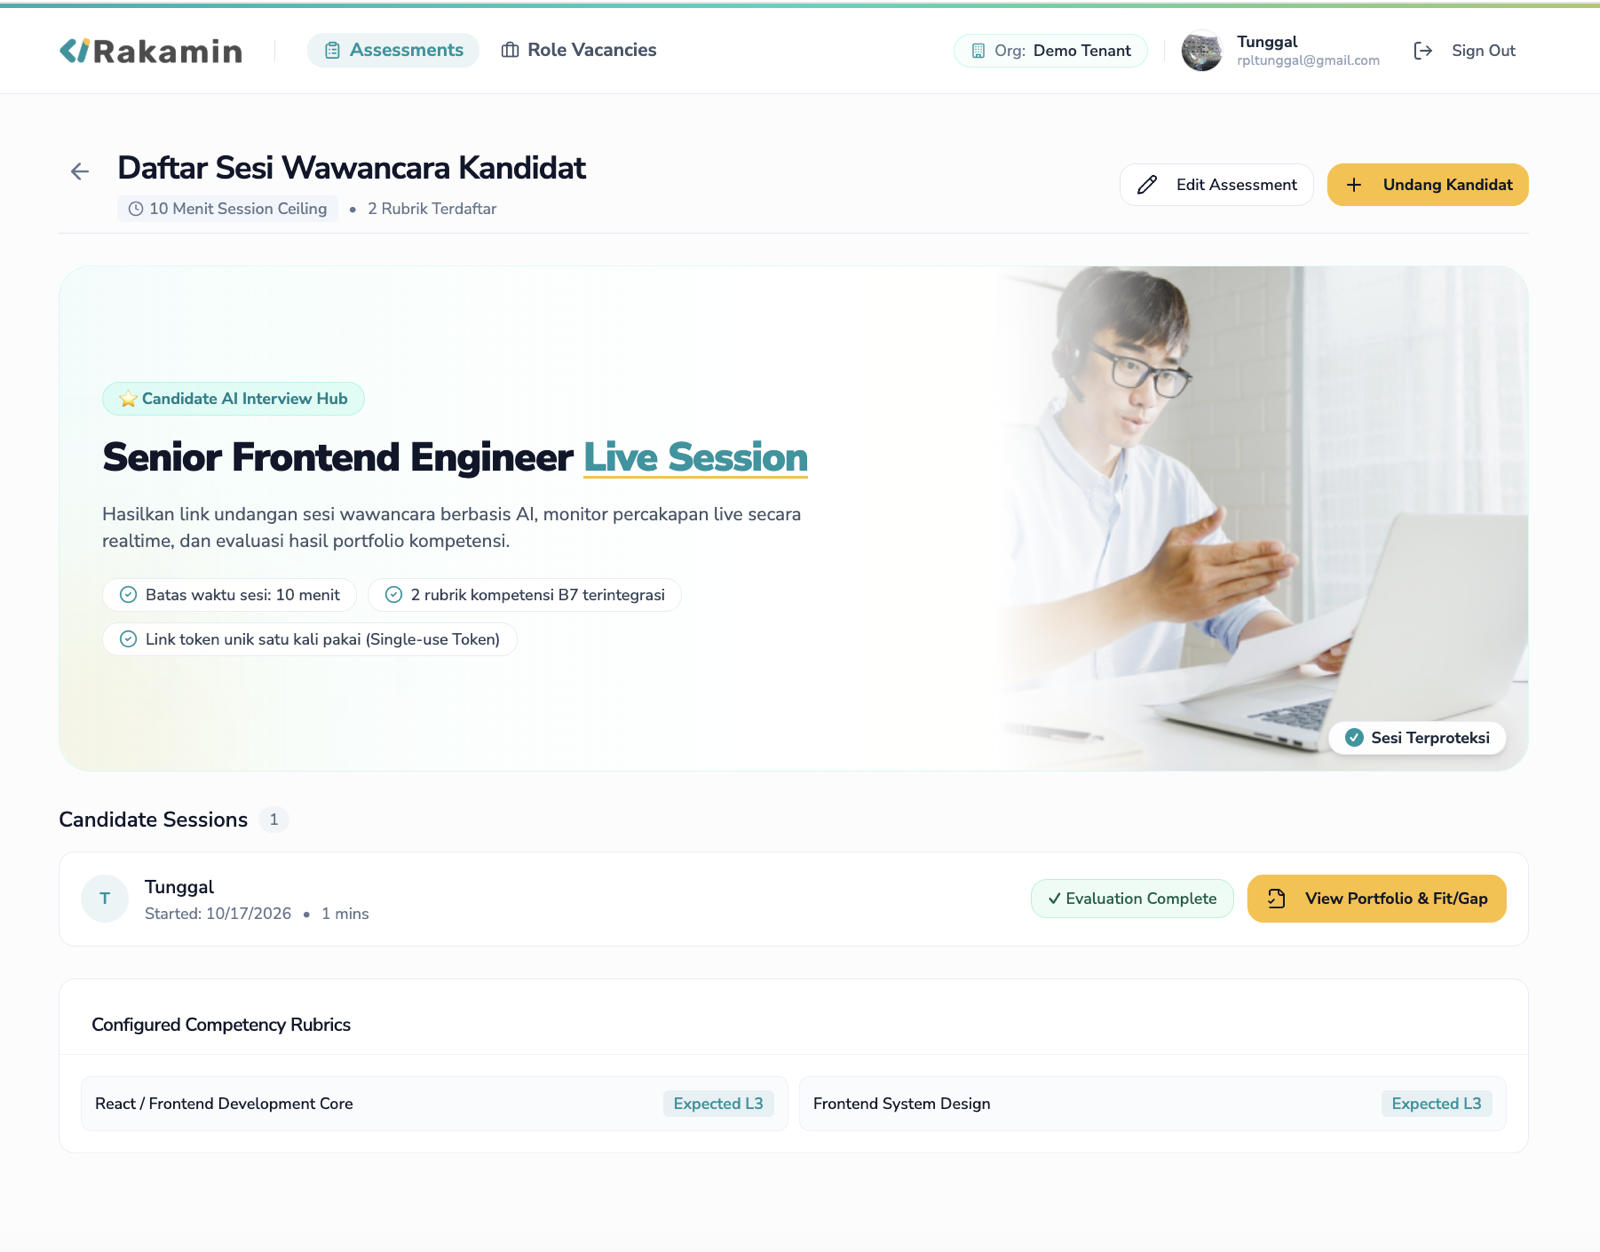
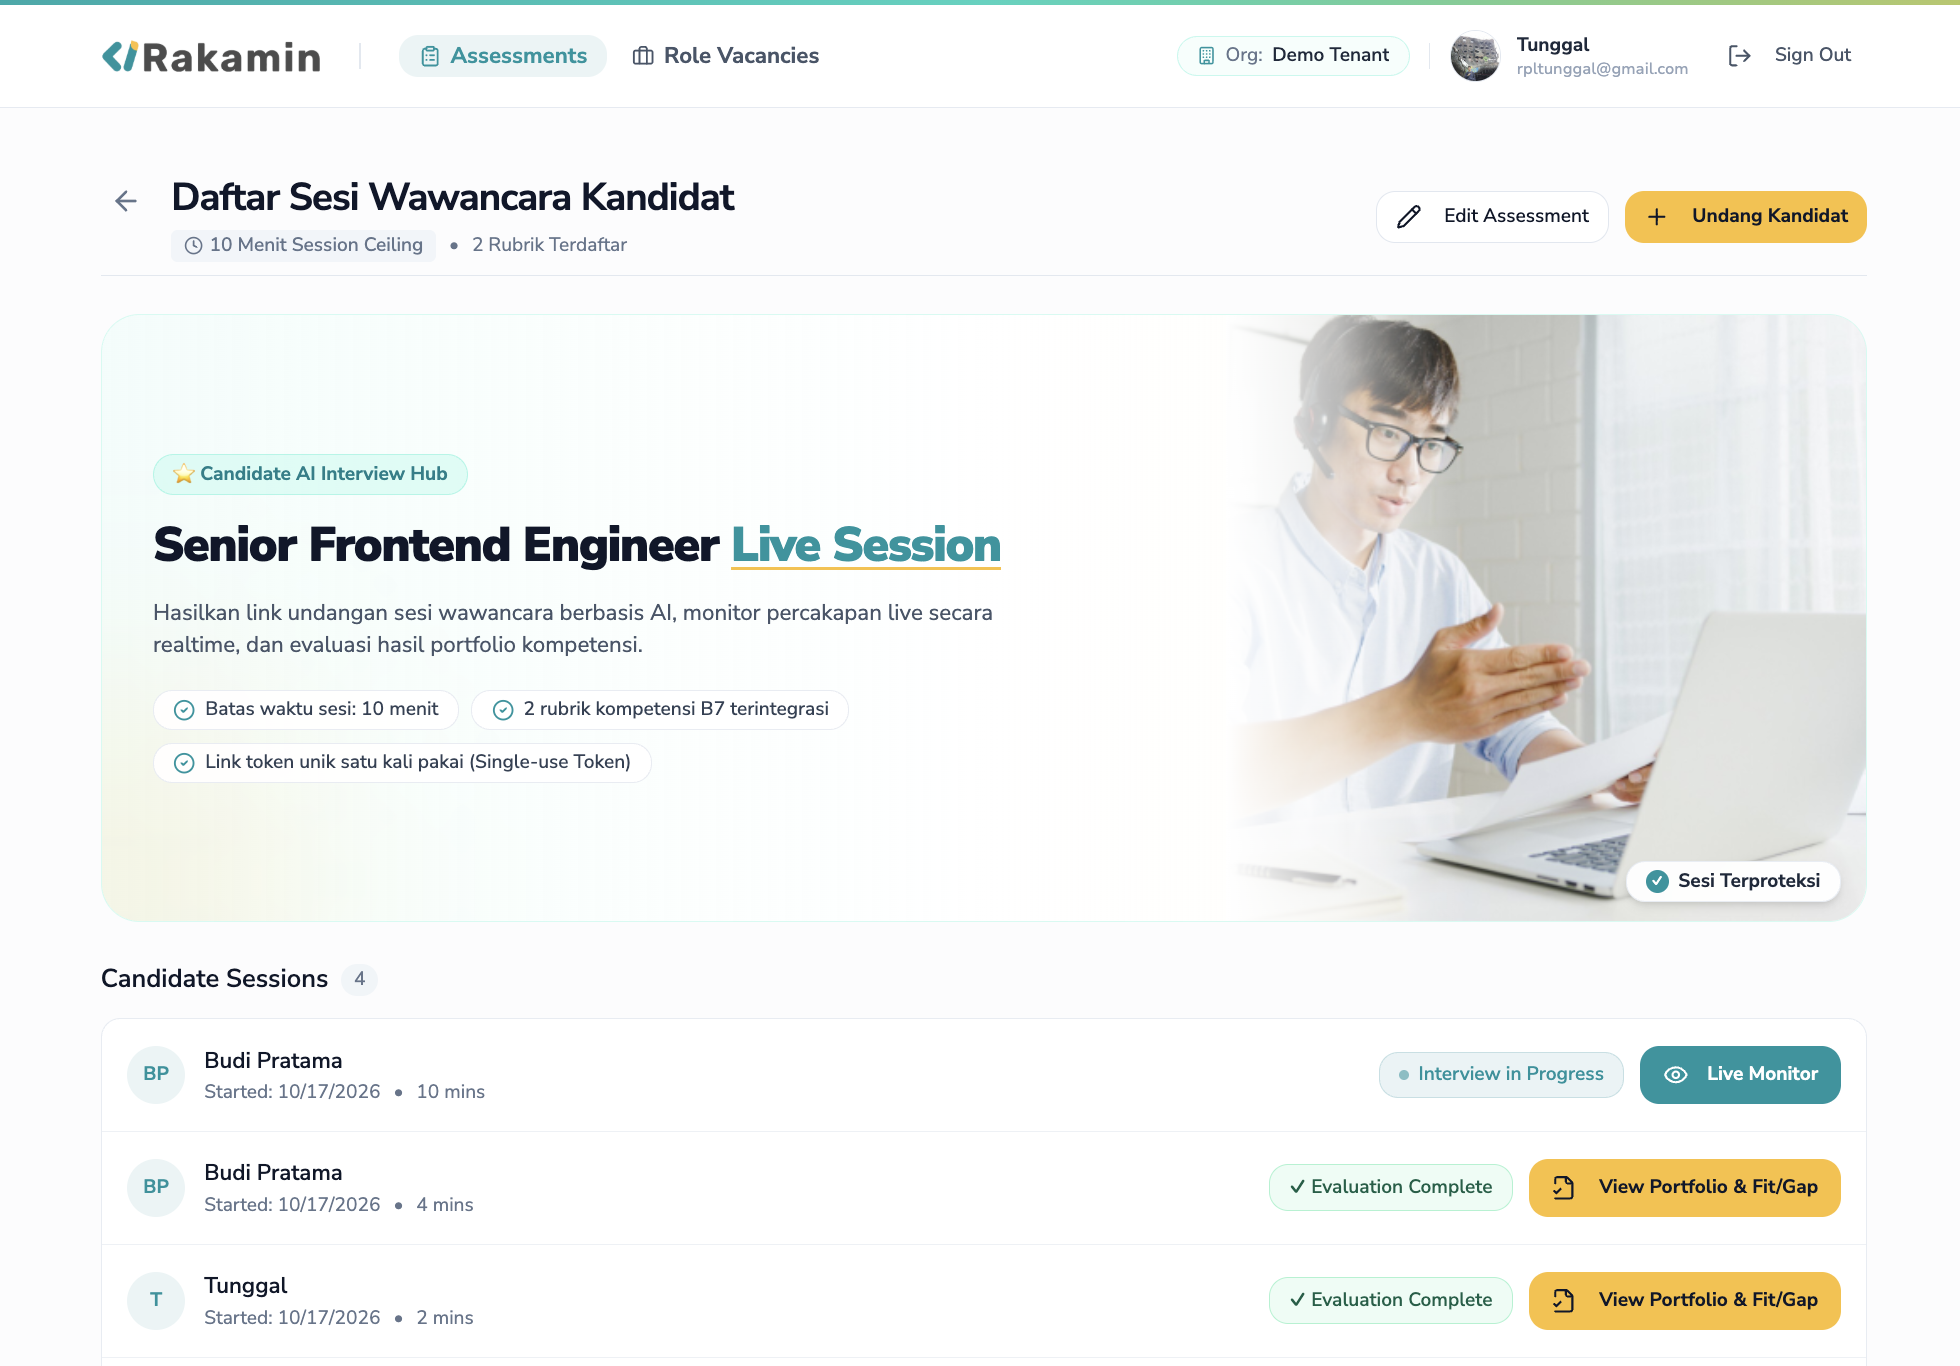
docs(showcase): update Live Interview Room and Candidate Sessions with active session screenshots

diff --git a/assessment/PR_BODY.md b/assessment/PR_BODY.md
@@ -81,7 +81,7 @@ This pull request delivers a comprehensive full-stack resilience hardening, UX c
 | Pre-Flight Hardware & Internet Check | Live Interview Room (Session Active) | Voice Waveform & Speech Signal |
 | :---: | :---: | :---: |
 | <img src="https://raw.githubusercontent.com/tunggalw7/ai-interview-platform/feature/monozukuri-fullstack-revamp/assessment/screenshots/showcase/09_interview_preflight_hardware_check.png" width="300" alt="Preflight Hardware Check" /> | <img src="https://raw.githubusercontent.com/tunggalw7/ai-interview-platform/feature/monozukuri-fullstack-revamp/assessment/screenshots/showcase/10_live_interview_active_room.png" width="300" alt="Live Interview Active" /> | <img src="https://raw.githubusercontent.com/tunggalw7/ai-interview-platform/feature/monozukuri-fullstack-revamp/assessment/screenshots/showcase/11_live_interview_voice_meter.png" width="300" alt="Live Voice Meter" /> |
-| *Candidate pre-start check: OS & browser compatibility, microphone test, and network latency check.* | *Live room view with Gemini Live indicator, session timer (10:00 ceiling), and AI listening status.* | *Dynamic audio waveform visualizer responding to candidate speech signals in real time.* |
+| *Candidate pre-start check: OS & browser compatibility, microphone test, and network latency check.* | *Live room session monitor with real-time WebSocket connection indicator, session timer, and live candidate speech transcript feed.* | *Dynamic audio waveform visualizer responding to candidate speech signals in real time.* |
 
 | Interview Concluded Confirmation Screen |
 | :---: |
